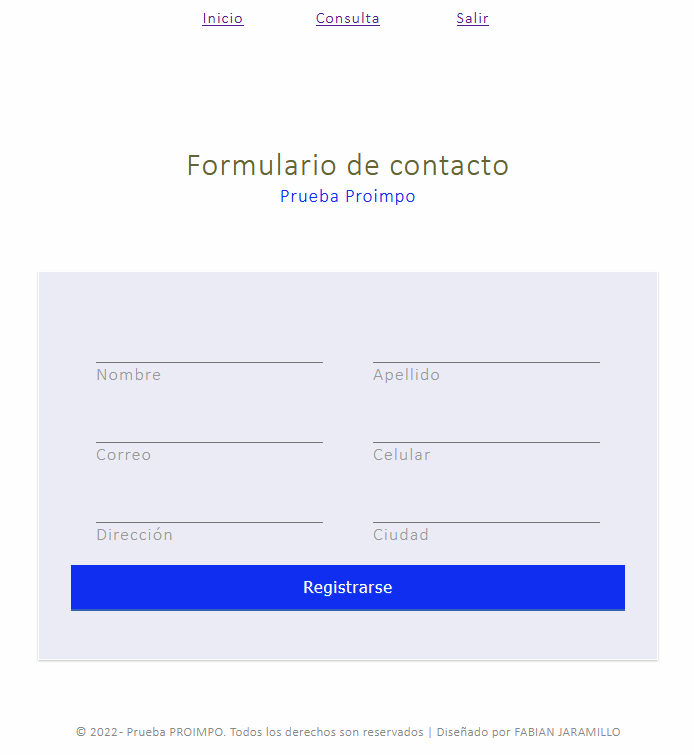
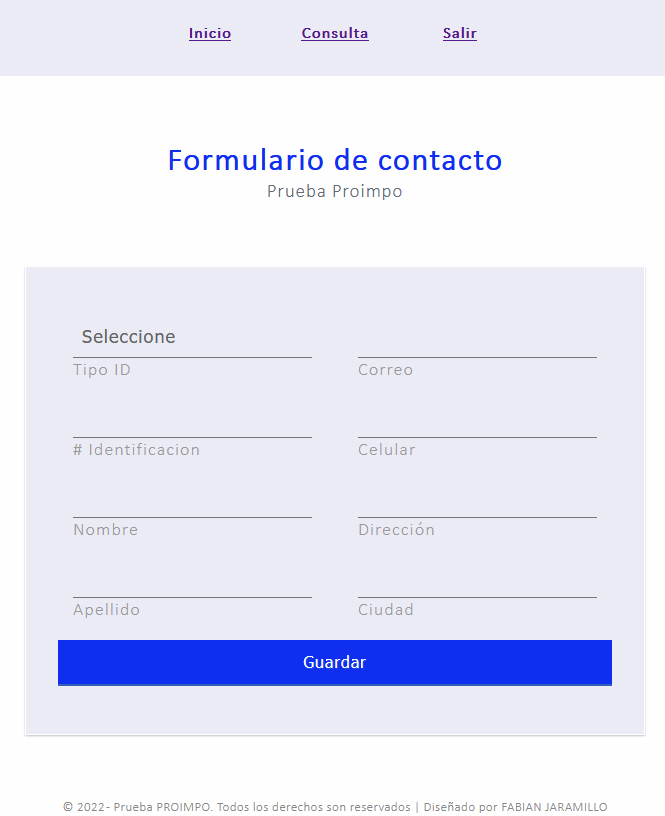
Avance desarrollo general

diff --git a/css/iniciostyle.css b/css/iniciostyle.css
@@ -24,6 +24,8 @@ h1 { color: #102EEF; font-weight: bold;}
 
 h3 { color: #636a74; }
 
+h4 { color: #102EEF; }
+
 form {
 	width: 620px;
 	margin: 4em auto;
@@ -31,12 +33,20 @@ form {
 	background: #EAEBF5;
 	border: 1px solid #FEFEFE;
 	box-shadow: rgba(0,0,0,0.14902) 0px 1px 1px 0px,rgba(0,0,0,0.09804) 0px 1px 2px 0px;
-    display: flex;
-    flex-direction: row;
-    flex-wrap: wrap;
 }
 
+.columna {
+	
+	columns: 2;
+}
 .group { 
+	position: relative; 
+	margin-bottom: 15px; 
+    margin-right: 15px;
+    margin-left: 15px;
+}
+
+.group.select { 
 	position: relative; 
 	margin-bottom: 15px; 
     margin-right: 25px;
@@ -56,7 +66,20 @@ input {
 	border-bottom: 1px solid #757575;
 }
 
-input:focus { outline: none; }
+select {
+	font-size: 18px;
+	padding: 10px 10px 10px 5px;
+	-webkit-appearance: none;
+	display: block;
+	background: #EAEBF5;
+	color: #636363;
+	width: 100%;
+	border: none;
+	border-radius: 0;
+	border-bottom: 1px solid #757575;
+}
+
+input:focus, select:focus { outline: none; }
 
 
 /* Label */
@@ -76,7 +99,7 @@ label {
 
 /* active */
 
-input:focus ~ label, input.used ~ label {
+input:focus ~ label, input.used ~ label, select:focus ~ label, select.used ~ label {
 	top: -20px;
   transform: scale(.75); left: -2px;
 	/* font-size: 14px; */
@@ -162,7 +185,6 @@ input:focus ~ .highlight {
   transition: all 0.15s ease;
 }
 .button:focus { outline: 0; }
-
 
 /* Button modifiers */
 

diff --git a/js/jstablaajax.js b/js/jstablaajax.js
@@ -18,6 +18,8 @@ $(document).ready(function() {
             "dataSrc":""
         },
         "columns":[
+            {"data": "tipoid"},
+            {"data": "cedula"},
             {"data": "nombre"},
             {"data": "apellido"},
             {"data": "correo"},

diff --git a/js/jsvalidaciones.js b/js/jsvalidaciones.js
@@ -36,6 +36,7 @@ $(document).ready(function(){
             e.preventDefault();
     });
 
+    //Validación de campos vacios
     $(".validacampovacio").keyup(function(){
 		usuario=$("#loginusuario").val();	
         clave=$("#loginclave").val();	

diff --git a/css/consulta.css b/css/consulta.css
@@ -52,6 +52,8 @@ h1 { color: #102EEF; font-weight: bold;}
 
 h3 { color: #636a74; }
 
+h4 { color: #102EEF; }
+
 footer { 
     text-align: center; 
     padding-top: 5%;

diff --git a/css/style.css b/css/style.css
@@ -24,6 +24,8 @@ h1 { color: #102EEF; font-weight: bold;}
 
 h3 { color: #636a74; }
 
+h4 { color: #102EEF; }
+
 form {
 	width: 380px;
 	margin: 4em auto;

diff --git a/css/registro.css b/css/registro.css
@@ -24,6 +24,8 @@ h1 { color: #636333; }
 
 h3 { color: #102EEF; }
 
+h4 { color: #102EEF; }
+
 form {
 	width: 380px;
 	margin: 4em auto;

diff --git a/modelo/formulario.modelo.php b/modelo/formulario.modelo.php
@@ -17,6 +17,7 @@ class modeloformulario {
 
     static public function mdlregistrousuario($tabla, $datos) {
 
+        //Si el usuario existe se enviara un mensaje al cliente informando que ya existe
         $stmt1 = Conexion::Conectar()->prepare("Select usuario From $tabla where usuario = :usuario");
         $stmt1->bindParam(":usuario", $datos["usuario"], PDO::PARAM_STR);
         $stmt1->execute();
@@ -24,7 +25,7 @@ class modeloformulario {
 
         if ($resultado != null ) {
             # code...
-            echo "<center><p><h3>Alerta! Este usuario ya existe</h3></p></center><br>";
+            echo "<center><p><h4>Alerta! Este usuario ya existe</h4></p></center><br>";
 
         } else {
             # statement: Declaracion
@@ -47,27 +48,47 @@ class modeloformulario {
 
     static public function mdlregistrocontacto($tabla, $datos) {
 
-        
-        # statement: Declaracion
-        $stmt = Conexion::Conectar()->prepare("Insert Into $tabla (nombre, apellido, correo, telefono, direccion, ciudad, usuario_creacion) Values (:nombre, :apellido, :correo, :telefono, :direccion, :ciudad, :usu)");
-        $stmt->bindParam(":nombre", $datos["nombre"], PDO::PARAM_STR);
-        $stmt->bindParam(":apellido", $datos["apellido"], PDO::PARAM_STR);
-        $stmt->bindParam(":correo", $datos["correo"], PDO::PARAM_STR);
-        $stmt->bindParam(":telefono", $datos["telefono"], PDO::PARAM_STR);
-        $stmt->bindParam(":direccion", $datos["direccion"], PDO::PARAM_STR);
-        $stmt->bindParam(":ciudad", $datos["ciudad"], PDO::PARAM_STR);
-        $stmt->bindParam(":usu", $datos["usu"], PDO::PARAM_INT);
+        $stmt1 = Conexion::Conectar()->prepare("Select cedula From $tabla where cedula = :cedula");
+        $stmt1->bindParam(":cedula", $datos["cedula"], PDO::PARAM_STR);
+        $stmt1->execute();
+        $resultado = $stmt1->fetch();
 
-        if ($stmt->execute()) {
-			# code...
-			return true;
+        if ($resultado != null ) {
+            # code...
+            echo "<center><p><h4>Alerta! La cedula ya existe en el sistema</h4></p></center><br>";
 
-		}else{
+        } else {
+            # statement: Declaracion
+            $stmt = Conexion::Conectar()->prepare("Insert Into $tabla (cedula, fk_tipoid, nombre, apellido, correo, telefono, direccion, ciudad, usuario_creacion) Values (:cedula, :tipoid, :nombre, :apellido, :correo, :telefono, :direccion, :ciudad, :usu)");
+            $stmt->bindParam(":cedula", $datos["cedula"], PDO::PARAM_STR);
+            $stmt->bindParam(":tipoid", $datos["tipoid"], PDO::PARAM_INT);
+            $stmt->bindParam(":nombre", $datos["nombre"], PDO::PARAM_STR);
+            $stmt->bindParam(":apellido", $datos["apellido"], PDO::PARAM_STR);
+            $stmt->bindParam(":correo", $datos["correo"], PDO::PARAM_STR);
+            $stmt->bindParam(":telefono", $datos["telefono"], PDO::PARAM_STR);
+            $stmt->bindParam(":direccion", $datos["direccion"], PDO::PARAM_STR);
+            $stmt->bindParam(":ciudad", $datos["ciudad"], PDO::PARAM_STR);
+            $stmt->bindParam(":usu", $datos["usu"], PDO::PARAM_INT);
 
-			$errorsql = $stmt->errorInfo();
-			print_r($errorsql);
-		}
+            if ($stmt->execute()) {
+                # code...
+                return true;
+
+            }else{
+
+                $errorsql = $stmt->errorInfo();
+                print_r($errorsql);
+            }
+        }
         
     }
+
+    static public function mdllistartipoid($tabla)
+	{
+		$stmt = Conexion::Conectar()->prepare("Select * From $tabla order by 2 ASC");
+		$stmt->execute();
+		return $stmt -> fetchAll();
+		$stmt = null;
+	}
 
 }

diff --git a/vista/pagina/inicio.php b/vista/pagina/inicio.php
@@ -13,6 +13,7 @@ if (!isset($_SESSION["validar"])) {
     return;
   }
 }
+$listartipoid = controladorformulario::ctrlistartipoid();
 ?>
 
 <link href="css/iniciostyle.css" rel="stylesheet" type="text/css" media="all">
@@ -21,6 +22,20 @@ if (!isset($_SESSION["validar"])) {
     <h3>Prueba Proimpo</h3>
 </hgroup>
 <form method="post" action="index.php?pagina=<?php echo $_GET['pagina'] ?>&usu=<?php echo $_GET['usu'] ?>">
+    <div class="columna">
+    <div class="group">
+        <select name="tipoid" id="tipoid">
+            <option value="">Seleccione</option>
+            <?php foreach ($listartipoid as $key => $value): ?>
+            <option value="<?php echo $value['pk_tipoid'] ?>"><?php echo $value['descripcion'] ?></option>
+            <?php endforeach ?>
+        </select><span class="highlight"></span><span class="bar"></span>
+        <label>Tipo ID</label>
+    </div>
+    <div class="group">
+        <input type="text" name="cedula" class="validanumericos"  required><span class="highlight"></span><span class="bar"></span>
+        <label># Identificacion</label>
+    </div>
     <div class="group">
         <input type="text" name="nombre" required><span class="highlight"></span><span class="bar"></span>
         <label>Nombre</label>
@@ -45,7 +60,8 @@ if (!isset($_SESSION["validar"])) {
         <input type="text" name="ciudad" required><span class="highlight"></span><span class="bar"></span>
         <label>Ciudad</label>
     </div>
-    <button type="submit" name="guardarcontacto" class="button buttonBlue">Registrarse
+    </div>
+    <button type="submit" name="guardarcontacto" class="button buttonBlue">Guardar
         <div class="ripples buttonRipples"><span class="ripplesCircle"></span></div>
     </button>
 </form>

diff --git a/modelo/consultatablaajax.php b/modelo/consultatablaajax.php
@@ -1,9 +1,10 @@
 <?php
 //Se realiza la conexión a la BD para poder capturar los datos consultados
 require_once "conexionbd.php";
-$stmt = Conexion::Conectar()->prepare("	select a.nombre as nombre, a.apellido as apellido, a.correo as correo, a.telefono as telefono, a.direccion as direccion, a.ciudad as ciudad, b.usuario as usuario, a.fecha_creacion as fecha 
+$stmt = Conexion::Conectar()->prepare("	select c.descripcion as tipoid, a.cedula as cedula, a.nombre as nombre, a.apellido as apellido, a.correo as correo, a.telefono as telefono, a.direccion as direccion, a.ciudad as ciudad, b.usuario as usuario, a.fecha_creacion as fecha 
 										from datosusuarios a
-										inner join usuarios b on b.pk_usuario = a.usuario_creacion");
+										inner join usuarios b on b.pk_usuario = a.usuario_creacion
+										inner join tipoidentificacion c on c.pk_tipoid = a.fk_tipoid");
 
         $stmt->execute();
 		$data = $stmt -> fetchAll(PDO::FETCH_ASSOC);

diff --git a/controlador/formulario.controlador.php b/controlador/formulario.controlador.php
@@ -72,6 +72,8 @@ class controladorformulario {
                             "telefono" => $_POST["telefono"],
                             "direccion" => $_POST["direccion"],
                             "ciudad" => $_POST["ciudad"],
+                            "cedula" => $_POST["cedula"],
+                            "tipoid" => $_POST["tipoid"],
                             "usu" => $_GET["usu"]
                             );
             
@@ -88,5 +90,15 @@ class controladorformulario {
 			return $Respuesta;
         }
     }
+
+	static public function ctrlistartipoid(){
+		
+		# code...
+		$tabla = "tipoidentificacion";
+		$Respuesta = modeloformulario::mdllistartipoid($tabla);
+
+		return $Respuesta;
+
+	}
 
 }

diff --git a/vista/pagina/consulta.php b/vista/pagina/consulta.php
@@ -24,6 +24,8 @@ if (!isset($_SESSION["validar"])) {
 <table id="datosusuarios" class="table-striped table-bordered" style="width:100%">
   <thead>
     <tr>
+      <th>Tipo ID</th>
+      <th># Identificacion</th>
       <th>Nombre</th>
       <th>Apellido</th>
       <th>Correo</th>                                
